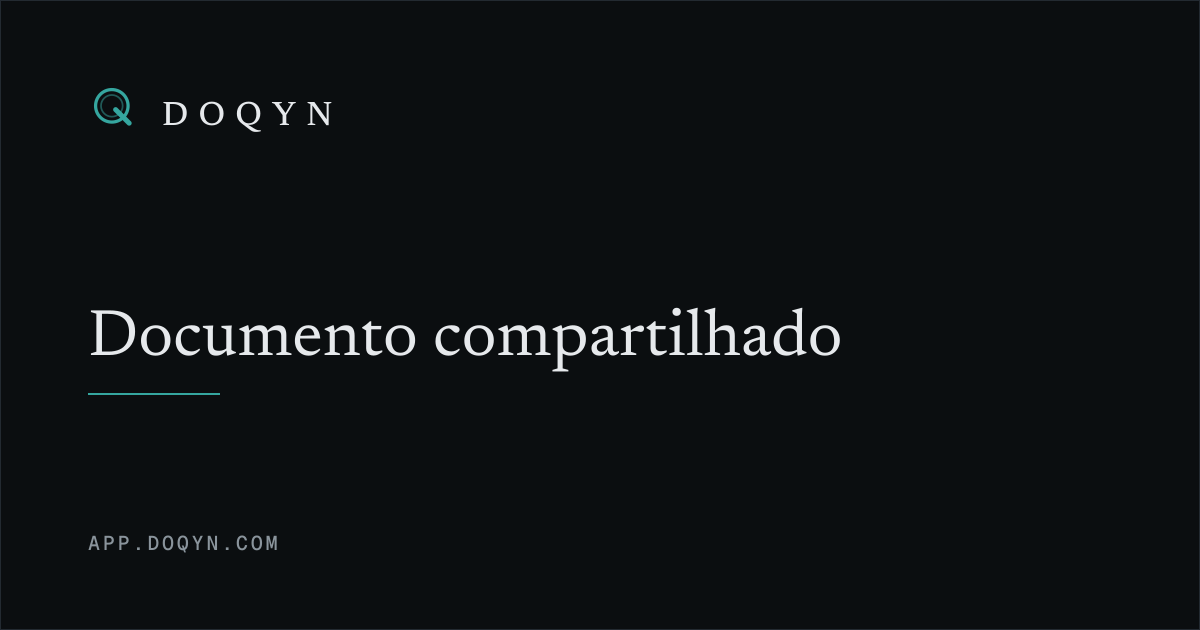
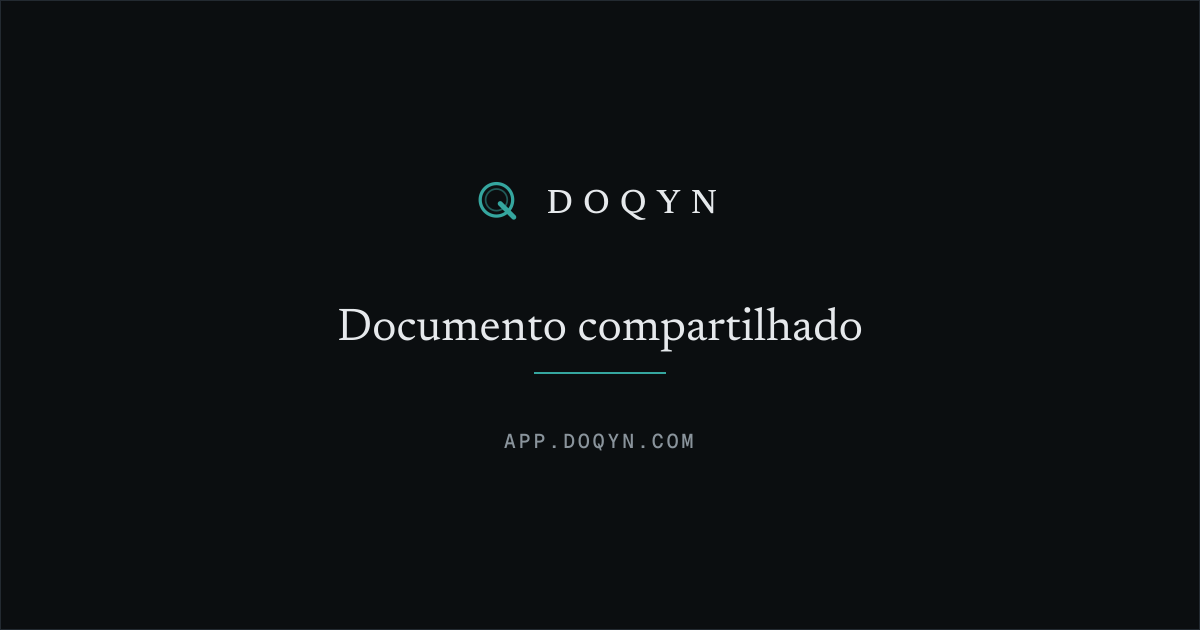
fix(og): o WhatsApp corta o cartão pelo centro, e o texto ficava fora
A prévia passou a aparecer, mas cortada: o WhatsApp não mostra o 1200x630
inteiro, recorta 3:2 pelo centro e descarta 127px de cada lado. O selo, a
primeira letra do título e o domínio viviam na margem de 88px — exatamente na
faixa descartada. Outros clientes chegam a recortar no quadrado, que é mais
agressivo ainda.

A composição passa a ser centralizada, com tudo dentro do quadrado central de
630x630 — o pior recorte que se vê na prática. O título cai de 66px para 46px,
que é o maior corpo em que "Documento compartilhado" ainda cabe ali com folga,
e o gerador agora aborta se um título novo não couber, em vez de emitir um
cartão que só se descobre cortado no chat.

A URL da imagem ganha `?v=2`: a prévia fica em cache no aparelho de quem já
colou o link, e sem trocar a URL o cartão antigo continuaria sendo servido.

diff --git a/index.html b/index.html
@@ -55,7 +55,7 @@
       property="og:description"
       content="Gestão segura, inteligente e rastreável de documentos empresariais."
     />
-    <meta property="og:image" content="https://app.doqyn.com/og/portal-card.png" />
+    <meta property="og:image" content="https://app.doqyn.com/og/portal-card.png?v=2" />
     <meta property="og:image:type" content="image/png" />
     <meta property="og:image:width" content="1200" />
     <meta property="og:image:height" content="630" />
@@ -65,7 +65,7 @@
       name="twitter:description"
       content="Gestão segura, inteligente e rastreável de documentos empresariais."
     />
-    <meta name="twitter:image" content="https://app.doqyn.com/og/portal-card.png" />
+    <meta name="twitter:image" content="https://app.doqyn.com/og/portal-card.png?v=2" />
     <title>DOQYN · Document Intelligence</title>
   </head>
   <body>

diff --git a/server/og/ogPortalMetadata.ts b/server/og/ogPortalMetadata.ts
@@ -41,10 +41,16 @@ export type OgPortalMetadata = {
  * O que o cartão diz é o que o destinatário já sabe por ter recebido o link: existe um documento
  * esperando por ele, e é do DOQYN. O resto está atrás do portal, que autentica.
  */
+// A prévia fica em cache no aparelho de quem já colou o link, e o robô não rebusca a imagem
+// enquanto a URL dela não mudar. Suba esta versão sempre que o desenho do cartão mudar.
+const CARD_VERSION = '2';
+
 function cardImageUrl(origin: string, kind: OgPortalKind): string {
   return toAbsolutePublicUrl(
     origin,
-    kind === 'sign' ? '/og/portal-card-sign.png' : '/og/portal-card-share.png',
+    kind === 'sign'
+      ? `/og/portal-card-sign.png?v=${CARD_VERSION}`
+      : `/og/portal-card-share.png?v=${CARD_VERSION}`,
   );
 }
 

diff --git a/tests/guest-portal-og.test.ts b/tests/guest-portal-og.test.ts
@@ -97,7 +97,11 @@ describe('guest portal Open Graph', () => {
       const html = read('index.html');
 
       assert.ok(
-        html.includes('property="og:image" content="https://app.doqyn.com/og/portal-card.png"'),
+        // A URL leva `?v=N`: sem trocar a URL da imagem, quem já viu a prévia antiga continua
+        // vendo o cartão em cache.
+        /property="og:image" content="https:\/\/app\.doqyn\.com\/og\/portal-card\.png\?v=\d+"/.test(
+          html,
+        ),
       );
       assert.ok(html.includes('property="og:image:width" content="1200"'));
       assert.ok(html.includes('name="twitter:card" content="summary_large_image"'));

diff --git a/scripts/og/build-og-cards.py b/scripts/og/build-og-cards.py
@@ -39,8 +39,15 @@ MUTED = '#8A949C'
 HAIRLINE = '#232a31'
 
 WIDTH, HEIGHT = 1200, 630
-MARGIN = 88
 MARK_SIZE = 52
+TITLE_SIZE = 46
+
+# Nenhum cliente mostra o cartão inteiro. O WhatsApp corta em 3:2 pelo centro (127px fora de
+# cada lado), e outros chegam a cortar no quadrado. Tudo que precisa ser lido vive dentro do
+# quadrado central de 630x630 — daí a composição centralizada e o título em 46px, que é o
+# corpo máximo em que "Documento compartilhado" ainda cabe ali com folga.
+SAFE_SIZE = HEIGHT
+SAFE_PADDING = 40
 
 
 def load(path, weight):
@@ -48,6 +55,20 @@ def load(path, weight):
     if 'fvar' in font:
         font = instantiateVariableFont(font, {'wght': weight}, inplace=False, updateFontNames=False)
     return font
+
+
+def text_width(font, text, size, tracking_em=0.0):
+    """Largura de avanço da linha, na mesma métrica usada por text_paths."""
+    upm = font['head'].unitsPerEm
+    cmap = font.getBestCmap()
+    hmtx = font['hmtx']
+    total = 0.0
+    for char in text:
+        name = cmap.get(ord(char))
+        if name is None:
+            raise SystemExit(f'glifo ausente na fonte: {char!r}')
+        total += hmtx[name][0] * size / upm + tracking_em * size
+    return total
 
 
 def text_paths(font, text, size, tracking_em=0.0):
@@ -89,17 +110,31 @@ def mark(x, y, size, color):
 
 def build_card(title, newsreader_medium, newsreader_regular, geist_mono):
     wordmark = text_paths(newsreader_medium, 'DOQYN', 34, tracking_em=0.30)
-    heading = text_paths(newsreader_regular, title, 66)
+    wordmark_width = text_width(newsreader_medium, 'DOQYN', 34, tracking_em=0.30)
+    heading = text_paths(newsreader_regular, title, TITLE_SIZE)
+    heading_width = text_width(newsreader_regular, title, TITLE_SIZE)
     footer = text_paths(geist_mono, 'APP.DOQYN.COM', 20, tracking_em=0.14)
+    footer_width = text_width(geist_mono, 'APP.DOQYN.COM', 20, tracking_em=0.14)
+
+    usable = SAFE_SIZE - SAFE_PADDING * 2
+    if heading_width > usable:
+        raise SystemExit(
+            f'título {title!r} tem {heading_width:.0f}px e não cabe na área segura '
+            f'de {usable}px — reduza TITLE_SIZE ou encurte o texto'
+        )
+
+    lockup_width = MARK_SIZE + 22 + wordmark_width
+    lockup_x = (WIDTH - lockup_width) / 2
+    lockup_y = 176
 
     return f'''<svg xmlns="http://www.w3.org/2000/svg" width="{WIDTH}" height="{HEIGHT}" viewBox="0 0 {WIDTH} {HEIGHT}">
   <rect width="{WIDTH}" height="{HEIGHT}" fill="{BG}"/>
   <rect x="0" y="0" width="{WIDTH}" height="{HEIGHT}" fill="none" stroke="{HAIRLINE}" stroke-width="2"/>
-  {mark(MARGIN, MARGIN - 6, MARK_SIZE, ACCENT)}
-  <g transform="translate({MARGIN + MARK_SIZE + 22} {MARGIN + MARK_SIZE * 0.72:.0f})" fill="{INK}">{wordmark}</g>
-  <g transform="translate({MARGIN} {HEIGHT / 2 + 40:.0f})" fill="{INK}">{heading}</g>
-  <rect x="{MARGIN}" y="{HEIGHT / 2 + 78:.0f}" width="132" height="2" fill="{ACCENT}"/>
-  <g transform="translate({MARGIN} {HEIGHT - MARGIN + 8})" fill="{MUTED}">{footer}</g>
+  {mark(f'{lockup_x:.1f}', lockup_y, MARK_SIZE, ACCENT)}
+  <g transform="translate({lockup_x + MARK_SIZE + 22:.1f} {lockup_y + MARK_SIZE * 0.72:.0f})" fill="{INK}">{wordmark}</g>
+  <g transform="translate({(WIDTH - heading_width) / 2:.1f} 340)" fill="{INK}">{heading}</g>
+  <rect x="{(WIDTH - 132) / 2:.0f}" y="372" width="132" height="2" fill="{ACCENT}"/>
+  <g transform="translate({(WIDTH - footer_width) / 2:.1f} 448)" fill="{MUTED}">{footer}</g>
 </svg>'''
 
 
